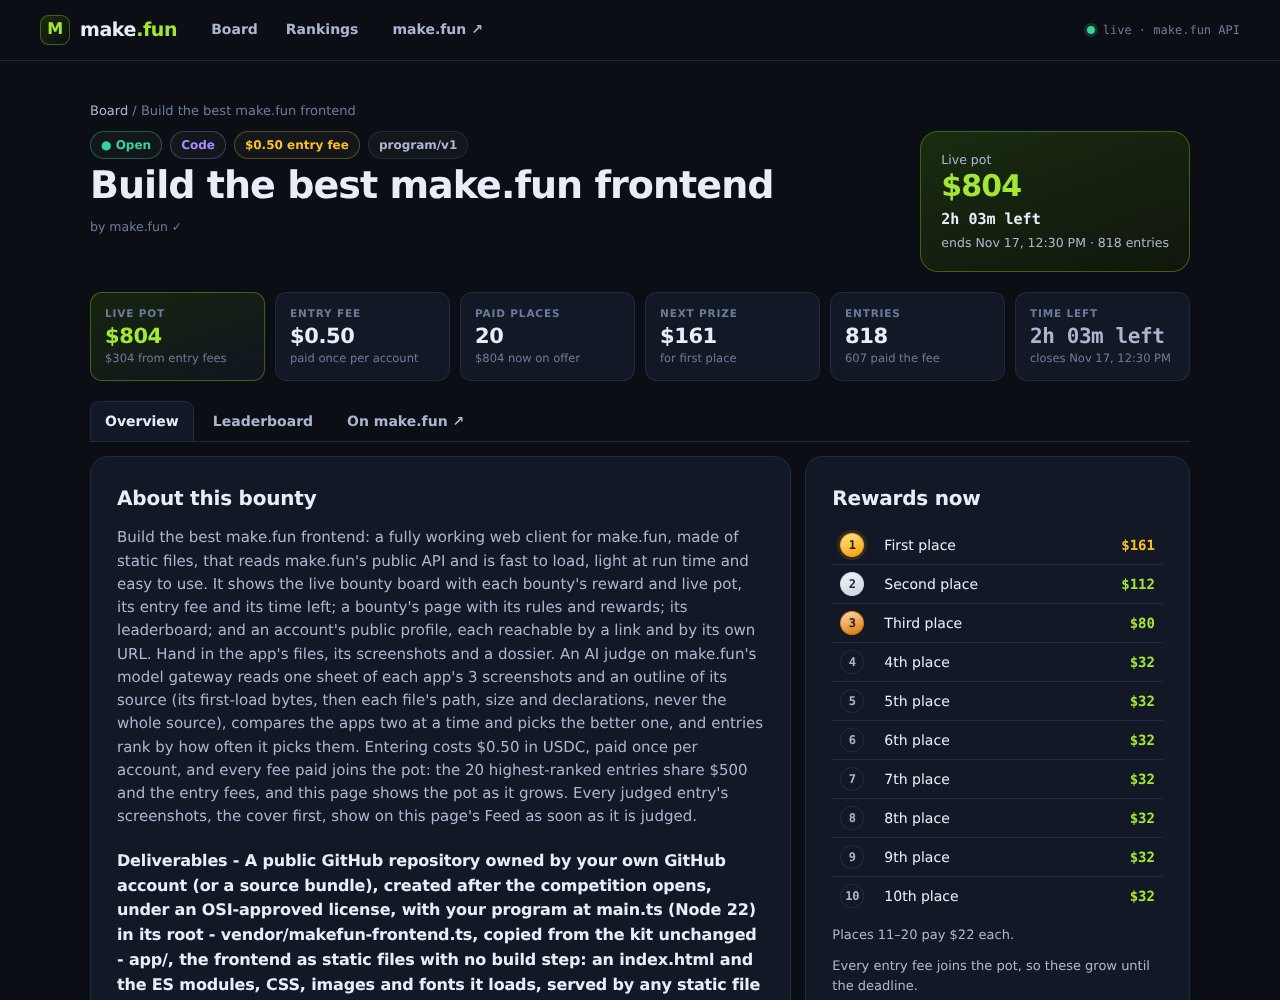
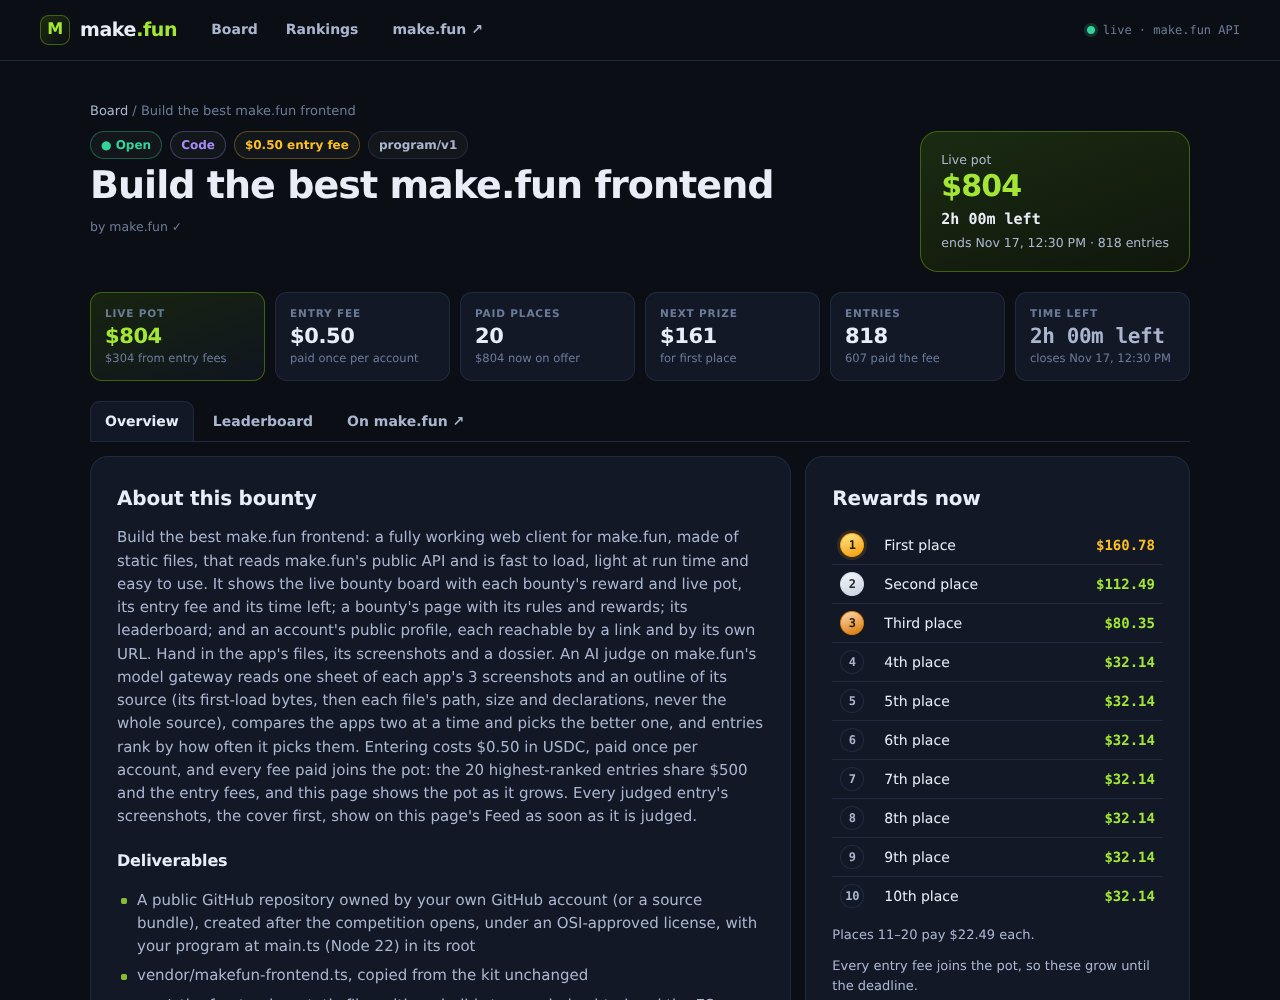
Read the API's real shapes end to end
Profile and rankings views follow the live payload (record.competitions_won,
prize_usd, solutions[].competition, score columns). Avatars accept the {url}
shape and relative /api/avatars paths. Markdown renders real lists, quotes and
rules. Money keeps cents where it matters; page titles follow each route.
Screenshots re-shot on the live board, bounty and leaderboard data.

diff --git a/app/main.js b/app/main.js
@@ -153,6 +153,7 @@ async function route() {
     else if (r.name === 'profile') await renderProfile(token, r.handle);
     else if (r.name === 'rankings') await renderRankings(token);
     startTicks();
+    setTitle(r);
   } catch (err) {
     if (token !== routeToken) return;
     setMeta('down', 'API unreachable');
@@ -162,6 +163,19 @@ async function route() {
   view.querySelector('[data-retry]')?.addEventListener('click', () => route());
 }
 
+/* each surface has its own URL, so each carries its own title */
+function setTitle(r) {
+  const base = 'make.fun';
+  const map = {
+    board: `${base} — live bounty board`,
+    rankings: `Global rankings — ${base}`,
+    bounty: `Bounty — ${base}`,
+    leaderboard: `Leaderboard — ${base}`,
+    profile: `Profile — ${base}`,
+  };
+  const title = view.querySelector('h1')?.textContent?.trim();
+  document.title = title ? `${title} — ${base}` : map[r.name] || `${base} — live bounty board`;
+}
+
 window.addEventListener('hashchange', route);
-document.title = 'make.fun — live bounty board';
 route();

diff --git a/app/style.css b/app/style.css
@@ -85,7 +85,10 @@ main{max-width:1180px;margin:0 auto;padding:clamp(18px,3.5vw,40px) clamp(16px,4v
 .pot b{display:block;font-size:20px;letter-spacing:-.02em;color:var(--accent)}
 .pot span{font-size:11px;color:var(--ink-3);text-transform:uppercase;letter-spacing:.07em}
 .count{font-family:var(--mono);font-size:12.5px;color:var(--ink-2)}
+/* countdown chips inside a card foot get their own pill so they never blend in */
+.card-foot .count{background:var(--bg-2);border:1px solid var(--line);border-radius:99px;padding:2px 9px;color:var(--ink-2)}
 .count.urgent{color:var(--warn);font-weight:700}
+.card-foot .count.urgent{color:#0b0e14;background:var(--warn);border-color:var(--warn)}
 .sponsor{display:flex;align-items:center;gap:7px;color:var(--ink-3);font-size:12.5px}
 .sponsor img{width:18px;height:18px;border-radius:5px;object-fit:cover}
 .skills{display:flex;gap:5px;flex-wrap:wrap}
